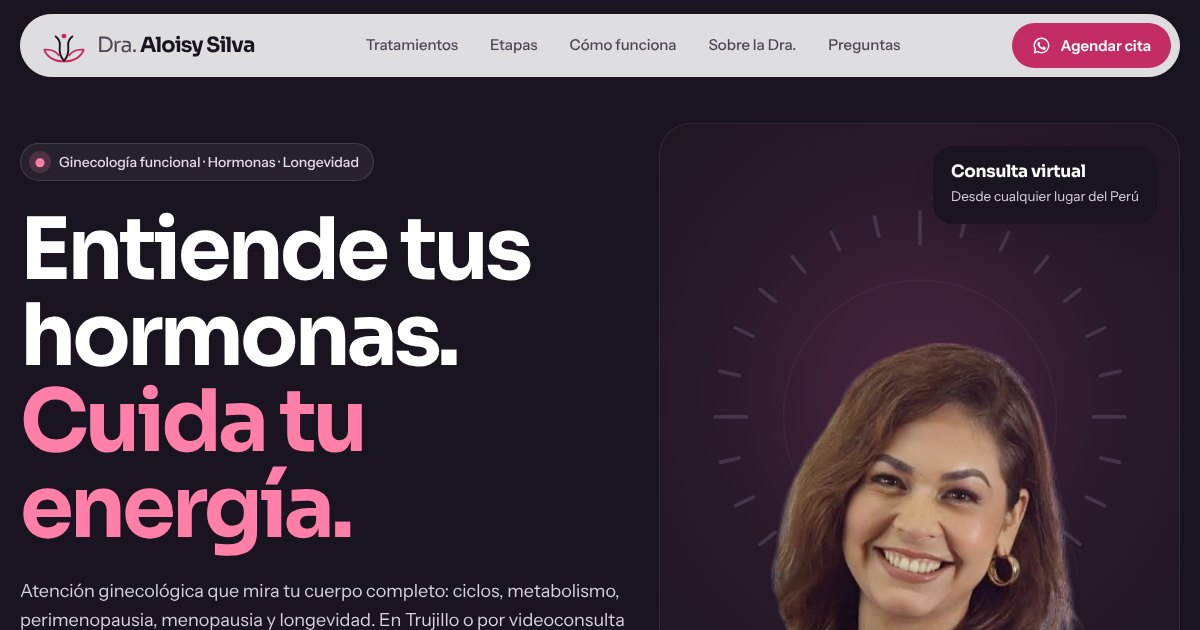
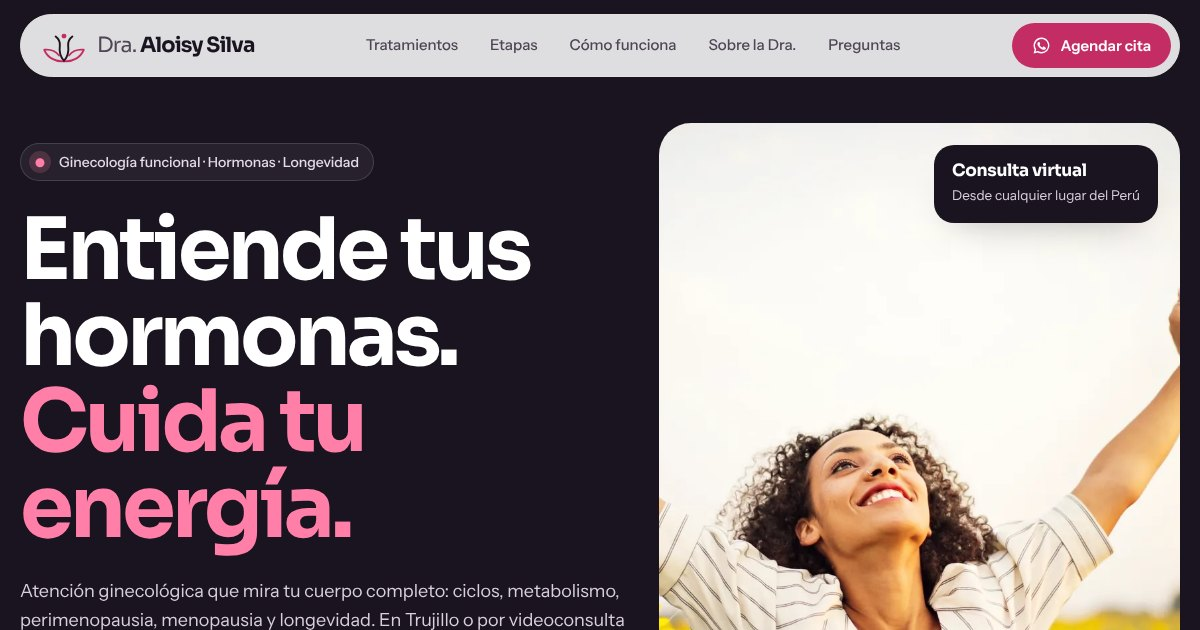
Demo Dra. Aloisy Silva: fotos temáticas en alta (Pexels), sin fondos ciruela y franja de demo en una línea
Claude-Session: https://claude.ai/code/session_01Fv4H8LLei8NxYoDGc9R5Vx

diff --git a/public/demo-aloisy/index.html b/public/demo-aloisy/index.html
@@ -21,7 +21,7 @@
 <meta name="twitter:card" content="summary_large_image">
 <link rel="preload" href="fonts/sora-latin-700-normal.woff2" as="font" type="font/woff2" crossorigin>
 <link rel="preload" href="fonts/instrument-sans-latin-400-normal.woff2" as="font" type="font/woff2" crossorigin>
-<link rel="preload" href="img/dra-retrato-1500.webp" as="image" imagesrcset="img/dra-retrato-760.webp 760w, img/dra-retrato-1500.webp 1500w" imagesizes="(max-width: 920px) 90vw, 540px">
+<link rel="preload" href="img/f-energia.webp" as="image">
 
 <!-- Origen: prototipo de Home (v2, dirección moderna) para la Dra. Aloisy Silva, ALIVE, nov 2026.
      Lo resaltado como «por confirmar» es dato pendiente. No hay cifras, testimonios ni credenciales inventadas. -->
@@ -58,7 +58,8 @@ p{margin:0}
 @media (prefers-reduced-motion:reduce){html{scroll-behavior:auto}*,*::before,*::after{animation:none!important;transition:none!important}}
 
 /* aviso de prototipo */
-.proto{background:var(--tinta);color:#EDE6EE;font-size:13px;text-align:center;padding-block:9px}
+.proto{background:var(--tinta);color:#EDE6EE;font-size:13px;text-align:center;padding-block:9px;white-space:nowrap;overflow:hidden;text-overflow:ellipsis}
+@media (max-width:380px){.proto{font-size:12px}}
 .proto b{color:#FF9BBE;font-weight:600}
 
 /* cabecera */
@@ -112,8 +113,9 @@ p{margin:0}
 .datos span{display:flex;align-items:center;gap:8px}
 .datos span::before{content:"";width:8px;height:8px;border-radius:50%;background:var(--frambuesa)}
 
-.visual{position:relative;border-radius:var(--r-l);background:radial-gradient(70% 55% at 50% 38%,#4A2541 0%,#2A1A2A 55%,#1F1622 100%);border:1px solid rgba(255,255,255,.08);min-height:600px;overflow:hidden;display:grid;place-items:center}
+.visual{position:relative;border-radius:var(--r-l);background:#2A2430;min-height:600px;overflow:hidden;display:grid;place-items:center}
 .visual{place-items:end center}
+.foto-hero{position:absolute;inset:0;width:100%;height:100%;object-fit:cover;object-position:58% 40%}
 .anillo-fondo{position:absolute;top:7%;left:50%;transform:translateX(-50%);width:min(94%,540px);aspect-ratio:1}
 .retrato-hero{position:relative;width:min(90%,540px);height:auto;display:block}
 .visual .foto{position:absolute;z-index:2;inset:auto 20px 20px 20px;display:flex;justify-content:space-between;align-items:flex-end;gap:12px;flex-wrap:wrap}
@@ -145,7 +147,7 @@ p{margin:0}
 @media (max-width:820px){.cab{grid-template-columns:1fr}.sec{padding-block:76px}}
 
 /* mosaico */
-.mosaico{display:grid;grid-template-columns:repeat(4,1fr);grid-auto-rows:minmax(230px,auto);gap:16px}
+.mosaico{display:grid;grid-template-columns:repeat(4,1fr);gap:16px}
 .m{border-radius:var(--r-m);padding:28px;display:flex;flex-direction:column;justify-content:space-between;gap:22px;text-decoration:none;color:var(--tinta);transition:transform .25s ease;min-width:0}
 .m:hover{transform:translateY(-4px)}
 .m h3{font-size:clamp(24px,2.3vw,30px);margin-bottom:10px}
@@ -160,7 +162,7 @@ p{margin:0}
 .m-1 .chips{display:flex;flex-wrap:wrap;gap:8px;margin-top:20px}
 .m-1 .chips span{border:1px solid rgba(255,255,255,.22);border-radius:999px;padding:7px 13px;font-size:14px;color:#EDE6EE}
 .m-2{background:var(--lila)}.m-3{background:var(--salvia)}.m-4{background:var(--arena)}.m-5{background:var(--rubor)}
-.m-6{grid-column:1/-1;flex-direction:row;align-items:center;background:var(--blanco);border:1px solid var(--linea)}
+/*mosaico-fotos*/.m-6{grid-column:1/-1;flex-direction:row;align-items:center;background:var(--blanco);border:1px solid var(--linea)}
 @media (max-width:1000px){.mosaico{grid-template-columns:1fr 1fr}.m-1,.m-6{grid-column:span 2}.m-1{grid-row:auto}}
 @media (max-width:620px){.mosaico{grid-template-columns:1fr}.m-1,.m-6{grid-column:auto}.m{min-height:0}.m-6{flex-direction:column;align-items:stretch}}
 
@@ -189,7 +191,7 @@ p{margin:0}
 /* sobre */
 .sobre{display:grid;grid-template-columns:.9fr 1.1fr;gap:clamp(30px,5vw,80px);align-items:center}
 .retrato{border-radius:var(--r-l);aspect-ratio:4/5;background:var(--lila);position:relative;overflow:hidden;display:grid;place-items:center;max-width:100%}
-.retrato{background:var(--tinta)}.retrato img{position:absolute;inset:0;width:100%;height:100%;object-fit:cover;object-position:50% 30%}
+.retrato{background:var(--arena)}.retrato img{position:absolute;inset:0;width:100%;height:100%;object-fit:cover;object-position:30% 50%}
 .retrato .ph-nota{top:auto;bottom:20px;left:20px}
 .sobre h2{font-size:clamp(40px,5vw,68px);margin-bottom:24px}
 .sobre .lead{font-size:clamp(20px,2vw,25px);line-height:1.4;font-family:var(--display);font-weight:500;letter-spacing:-.02em;margin-bottom:22px}
@@ -256,6 +258,23 @@ footer .legal{display:flex;justify-content:space-between;flex-wrap:wrap;gap:12px
 /* anillo del ciclo */
 .anillo .orbita{transform-origin:200px 200px;animation:girar 28s linear infinite}
 @keyframes girar{to{transform:rotate(360deg)}}
+
+.m-1{position:relative;overflow:hidden;isolation:isolate;min-height:520px}
+.m-1 .bgf{position:absolute;inset:0;width:100%;height:100%;object-fit:cover;object-position:50% 30%;z-index:-2}
+.m-1::before{content:"";position:absolute;inset:0;z-index:-1;background:linear-gradient(180deg,rgba(26,20,32,0) 15%,rgba(26,20,32,.7) 45%,rgba(26,20,32,.94) 75%)}
+.m-1>div:first-of-type{margin-top:auto}
+.m .mf{width:100%;height:auto;aspect-ratio:16/10;object-fit:cover;border-radius:16px;display:block;margin-bottom:4px}
+.m-2,.m-3,.m-4,.m-5{background:var(--blanco);border:1px solid var(--linea);padding:12px 12px 22px}
+.m-2>div,.m-3>div,.m-4>div,.m-5>div{padding-inline:12px}
+.m-6{padding:12px 28px 12px 12px;gap:28px}
+.m-6 .mf{width:min(34%,320px);height:auto;aspect-ratio:16/10;margin:0;flex:none}
+@media (max-width:620px){.m-6{padding:12px 12px 22px}.m-6 .mf{width:100%}.m-6>div{padding-inline:12px}.m-1{min-height:600px}.m-1 .bgf{object-position:50% 0}}
+.modf{width:100%;height:auto;aspect-ratio:16/9;object-fit:cover;border-radius:20px;display:block}
+.cierre .caja{position:relative;isolation:isolate;grid-template-columns:1fr}
+.cierre .cf{position:absolute;inset:0;width:100%;height:100%;object-fit:cover;object-position:60% 35%;z-index:-2}
+.cierre .caja::before{content:"";position:absolute;inset:0;z-index:-1;background:linear-gradient(90deg,rgba(26,20,32,.92) 0%,rgba(26,20,32,.75) 45%,rgba(26,20,32,.15) 100%)}
+.cierre .caja>div{max-width:640px}
+@media (max-width:820px){.cierre .caja::before{background:linear-gradient(180deg,rgba(26,20,32,.35) 0%,rgba(26,20,32,.9) 55%)}.cierre .caja{padding-top:220px}}
 </style>
 </head>
 <body>
@@ -266,7 +285,7 @@ footer .legal{display:flex;justify-content:space-between;flex-wrap:wrap;gap:12px
   <symbol id="fl" viewBox="0 0 20 20"><path d="M5 15 15 5M7 5h8v8" fill="none" stroke="currentColor" stroke-width="2" stroke-linecap="round" stroke-linejoin="round"/></symbol>
 </svg>
 
-<div class="proto"><div class="in"><b>Demo de diseño</b> preparado por ALIVE para revisión. No es el sitio oficial; los botones aún no envían mensajes.</div></div>
+<div class="proto"><div class="in"><b>Demo de diseño</b> preparado por ALIVE para revisión.</div></div>
 
 <header class="nav">
   <div class="in"><div class="bar">
@@ -301,8 +320,7 @@ footer .legal{display:flex;justify-content:space-between;flex-wrap:wrap;gap:12px
       <div class="datos"><span>Presencial en CEGEMA, Trujillo</span><span>Virtual en todo el Perú</span></div>
     </div>
     <div class="visual">
-      <svg class="anillo anillo-fondo" data-anillo data-oscuro data-sin-texto viewBox="0 0 400 400" aria-hidden="true"></svg>
-      <img class="retrato-hero" src="img/dra-retrato-1500.webp" srcset="img/dra-retrato-760.webp 760w, img/dra-retrato-1500.webp 1500w" sizes="(max-width: 920px) 90vw, 540px" fetchpriority="high" width="1500" height="1565" alt="Dra. Aloisy Silva, sonriendo">
+      <img class="foto-hero" src="img/f-energia.webp" width="1600" height="1067" alt="Mujer sonriente con los brazos en alto en un campo de girasoles">
       <div class="tarjeta t-virtual"><b>Consulta virtual</b><small>Desde cualquier lugar del Perú</small></div>
       <div class="foto">
         <div class="tarjeta t-cita"><span class="ic"><svg aria-hidden="true"><use href="#wa"/></svg></span><div><b>Evaluación inicial</b><small>Presencial o virtual · por WhatsApp</small></div></div>
@@ -323,16 +341,16 @@ footer .legal{display:flex;justify-content:space-between;flex-wrap:wrap;gap:12px
       <p>Buscamos la causa de lo que sientes y armamos un plan contigo, con exámenes y seguimiento.</p>
     </div>
     <div class="mosaico">
-      <a class="m m-1" href="#agendar">
-        <div><h3>Hormonas y menopausia</h3><p>Sofocos, sueño, ánimo, peso y libido. Te explicamos qué pasa en tu cuerpo y cuáles son tus opciones de tratamiento.</p>
+      <a class="m m-1" href="#agendar"><img class="bgf" src="img/f-hormonas.webp" width="1400" height="934" alt="" loading="lazy">
+        <div class="sobre-f"><h3>Hormonas y menopausia</h3><p>Sofocos, sueño, ánimo, peso y libido. Te explicamos qué pasa en tu cuerpo y cuáles son tus opciones de tratamiento.</p>
           <div class="chips"><span>Perimenopausia</span><span>Menopausia</span><span>Terapia hormonal</span><span>Seguimiento</span></div></div>
-        <div class="pie">Agendar evaluación<span class="flecha"><svg aria-hidden="true"><use href="#fl"/></svg></span></div>
+        <div class="pie sobre-f">Agendar evaluación<span class="flecha"><svg aria-hidden="true"><use href="#fl"/></svg></span></div>
       </a>
-      <a class="m m-2" href="#agendar"><div><h3>Ginecología funcional</h3><p>Ciclos irregulares, SOP, dolor menstrual y salud íntima.</p></div><div class="pie">Conocer más<span class="flecha"><svg aria-hidden="true"><use href="#fl"/></svg></span></div></a>
-      <a class="m m-3" href="#agendar"><div><h3>Metabolismo</h3><p>Resistencia a la insulina, tiroides, energía y peso.</p></div><div class="pie">Conocer más<span class="flecha"><svg aria-hidden="true"><use href="#fl"/></svg></span></div></a>
-      <a class="m m-4" href="#agendar"><div><h3>Longevidad y antiedad</h3><p>Prevención y hábitos para vivir más años con bienestar.</p></div><div class="pie">Conocer más<span class="flecha"><svg aria-hidden="true"><use href="#fl"/></svg></span></div></a>
-      <a class="m m-5" href="#agendar"><div><h3>Ginecología regenerativa</h3><p>Tratamientos para la salud íntima, siempre tras una evaluación.</p></div><div class="pie">Conocer más<span class="flecha"><svg aria-hidden="true"><use href="#fl"/></svg></span></div></a>
-      <a class="m m-6" href="#agendar"><div style="min-width:0"><h3>Láser ginecológico</h3><p>Procedimientos indicados según tu caso. <span class="tbc">Equipos por confirmar</span></p></div><div class="pie" style="gap:16px">Conocer más<span class="flecha" style="background:var(--porcelana)"><svg aria-hidden="true"><use href="#fl"/></svg></span></div></a>
+      <a class="m m-2" href="#agendar"><img class="mf" src="img/f-consulta.webp" width="1000" height="667" alt="Médica conversando con una paciente durante la consulta" loading="lazy"><div><h3>Ginecología funcional</h3><p>Ciclos irregulares, SOP, dolor menstrual y salud íntima.</p></div><div class="pie">Conocer más<span class="flecha"><svg aria-hidden="true"><use href="#fl"/></svg></span></div></a>
+      <a class="m m-3" href="#agendar"><img class="mf" src="img/f-analisis.webp" width="1000" height="667" alt="Dos tubos de análisis de sangre" loading="lazy"><div><h3>Metabolismo</h3><p>Resistencia a la insulina, tiroides, energía y peso.</p></div><div class="pie">Conocer más<span class="flecha"><svg aria-hidden="true"><use href="#fl"/></svg></span></div></a>
+      <a class="m m-4" href="#agendar"><img class="mf" src="img/f-longevidad.webp" width="900" height="1350" alt="Mujer meditando en postura de yoga" loading="lazy"><div><h3>Longevidad y antiedad</h3><p>Prevención y hábitos para vivir más años con bienestar.</p></div><div class="pie">Conocer más<span class="flecha"><svg aria-hidden="true"><use href="#fl"/></svg></span></div></a>
+      <a class="m m-5" href="#agendar"><img class="mf" src="img/f-regenerativa.webp" width="1000" height="667" alt="Mujer relajada durante un tratamiento" loading="lazy"><div><h3>Ginecología regenerativa</h3><p>Tratamientos para la salud íntima, siempre tras una evaluación.</p></div><div class="pie">Conocer más<span class="flecha"><svg aria-hidden="true"><use href="#fl"/></svg></span></div></a>
+      <a class="m m-6" href="#agendar"><img class="mf" src="img/f-laser.webp" width="900" height="1350" alt="Estetoscopio con un corazón rojo" loading="lazy"><div style="min-width:0"><h3>Láser ginecológico</h3><p>Procedimientos indicados según tu caso. <span class="tbc">Equipos por confirmar</span></p></div><div class="pie" style="gap:16px">Conocer más<span class="flecha" style="background:var(--porcelana)"><svg aria-hidden="true"><use href="#fl"/></svg></span></div></a>
     </div>
   </div>
 </section>
@@ -369,7 +387,7 @@ footer .legal{display:flex;justify-content:space-between;flex-wrap:wrap;gap:12px
 
 <section class="sec" id="sobre" aria-labelledby="t-sobre">
   <div class="in sobre">
-    <div class="retrato"><img src="img/dra-bata.webp" width="1200" height="1500" alt="La Dra. Aloisy Silva con bata médica" loading="lazy"></div>
+    <div class="retrato"><img src="img/dra-consultorio.webp" width="1200" height="1200" alt="La Dra. Aloisy Silva en la recepción de su consultorio" loading="lazy"></div>
     <div>
       <p class="eti">Sobre la Dra.</p>
       <h2 id="t-sobre">Dra. Aloisy Silva</h2>
@@ -386,13 +404,13 @@ footer .legal{display:flex;justify-content:space-between;flex-wrap:wrap;gap:12px
   <div class="in">
     <div class="cab"><div><p class="eti">Modalidades</p><h2 id="t-mod">En consultorio o desde tu casa.</h2></div><p>La misma atención, en el formato que te quede mejor.</p></div>
     <div class="mods">
-      <div class="mod mod-p">
+      <div class="mod mod-p"><img class="modf" src="img/f-presencial.webp" width="1200" height="801" alt="Toma de presión arterial durante una consulta" loading="lazy">
         <span class="tag">Presencial</span><h3>CEGEMA, Trujillo</h3>
         <p>Evaluación completa con examen y procedimientos cuando se necesitan.</p>
         <ul><li>Evaluación ginecológica completa</li><li>Procedimientos en consultorio</li><li><span><span class="tbc">Dirección y horario por confirmar</span></span></li></ul>
         <a class="btn btn-t" href="#agendar">Agendar presencial</a>
       </div>
-      <div class="mod mod-v">
+      <div class="mod mod-v"><img class="modf" src="img/f-virtual.webp" width="1200" height="800" alt="Paciente en una videoconsulta con su médico desde la laptop" loading="lazy">
         <span class="tag">Virtual</span><h3>Desde cualquier lugar del Perú</h3>
         <p>Videoconsulta para revisar síntomas, exámenes y tratamientos.</p>
         <ul><li>Revisión de exámenes y plan de tratamiento</li><li>Seguimiento hormonal y metabólico</li><li>Si necesitas examen físico, te lo decimos antes</li></ul>
@@ -426,13 +444,12 @@ footer .legal{display:flex;justify-content:space-between;flex-wrap:wrap;gap:12px
 </section>
 
 <section class="cierre" id="agendar" aria-labelledby="t-cierre">
-  <div class="in"><div class="caja">
+  <div class="in"><div class="caja"><img class="cf" src="img/f-cierre.webp" width="1800" height="1235" alt="" loading="lazy">
     <div>
       <h2 id="t-cierre">Sentirte bien en cada etapa <span class="f">empieza con una conversación.</span></h2>
       <p>Escríbenos y coordinamos tu evaluación inicial, en Trujillo o por videoconsulta.</p>
       <div class="ctas"><a class="btn btn-f" href="#agendar"><svg aria-hidden="true"><use href="#wa"/></svg>Escribir por WhatsApp</a><a class="btn" style="background:#fff;color:var(--tinta)" href="#agendar">Dejar mis datos</a></div>
     </div>
-    <svg class="anillo" data-anillo data-oscuro viewBox="0 0 400 400" aria-hidden="true"></svg>
   </div></div>
 </section>
 </main>
